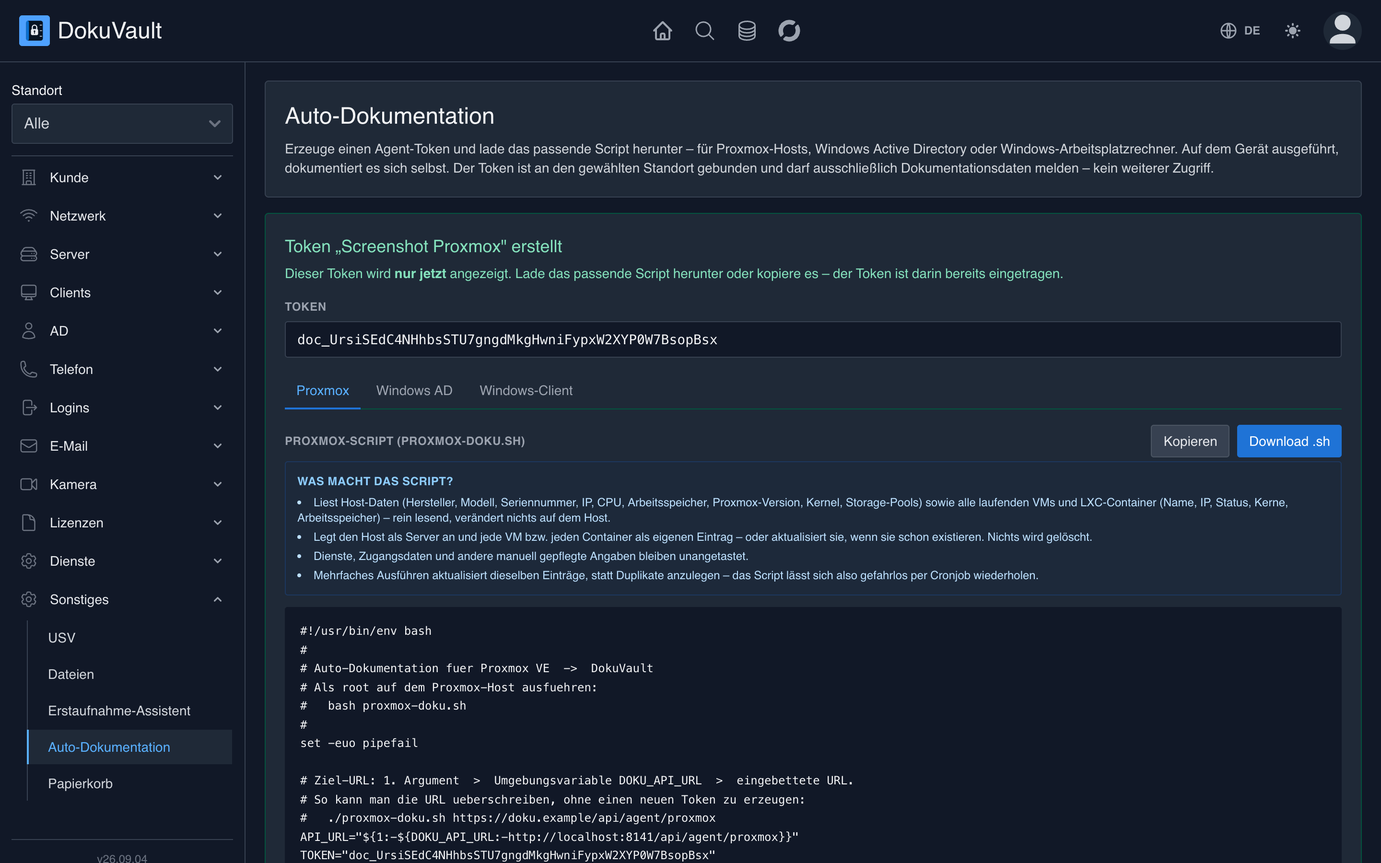
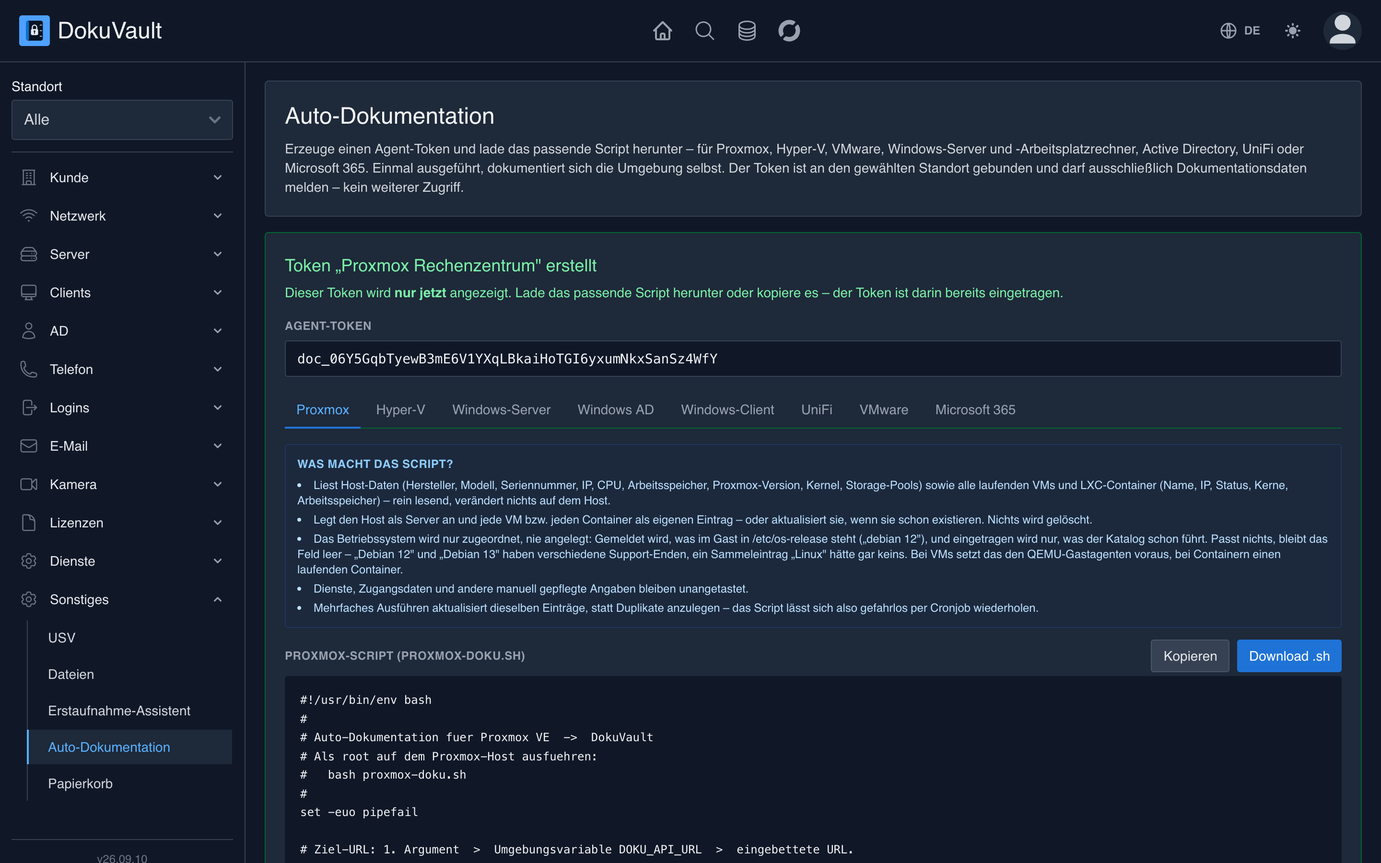
Die deutsche README kannte drei Agenten, es sind acht
Sie war fuenf Tage hinter der englischen zurueck: UniFi, VMware,
Hyper-V, Windows-Server und Microsoft 365 kamen darin nicht vor. Wer nur
die deutsche Fassung las, hielt sie fuer nicht vorhanden.

Der Abschnitt zur Auto-Dokumentation ist neu geschrieben und in beiden
Sprachen gleich gegliedert - vorher war die englische ein Fliesstext,
in dem die acht Agenten nur aufgezaehlt wurden:

  Auf dem Geraet selbst   Proxmox, Hyper-V, Windows-Server,
                          Windows-AD, Windows-Client
  Ueber das Netz          UniFi, VMware, Microsoft 365 - samt der
                          Shell-Fassungen, der Site-Wahl und der
                          Frage, wo das Kennwort landet
  Was ein Agent nicht tut fremde Zugangsdaten, Ueberschreiben von
                          Hand Gepflegtem, Katalogeintraege, der
                          Umfang eines Tokens

Der Screenshot zeigte noch die drei alten Reiter. Neu aufgenommen, in
beiden Sprachen, dazu ein zweites Bild der Agenten-Uebersicht - die gab
es beim letzten Screenshot noch nicht. Aufgenommen mit dem puppeteer,
das ohnehin im Projekt liegt, in 1440x900 bei doppelter Pixeldichte, wie
die uebrigen Screenshots.

Beim Aufnehmen der englischen Fassung fiel auf, dass die Oberflaeche
dort ins Deutsche faellt: 'Token „…" erstellt' und der Satz darunter
standen fest verdrahtet im Blade, nur die ersten drei Woerter liefen
durch __(). Auch die Beschriftung ueber dem Token-Wert stimmte nicht -
[…]

diff --git a/resources/views/agent/index.blade.php b/resources/views/agent/index.blade.php
@@ -24,15 +24,18 @@
             @endphp
             <div x-data="{ tab: @js(array_key_first($agenten)) }" class="p-5 rounded-xl border border-green-300 bg-green-50 shadow-xs dark:bg-gray-800 dark:border-green-800">
                 <div class="text-lg font-CoconPro text-green-800 dark:text-green-300">
-                    Token „{{ session('newTokenName') }}" erstellt
+                    {{ __('Token „:name" erstellt', ['name' => session('newTokenName')]) }}
                 </div>
                 <p class="mt-1 text-sm text-green-800 dark:text-green-300">
-                    {{ __('Dieser Token wird') }} <strong>nur jetzt</strong> angezeigt. Lade das passende Script herunter oder
-                    kopiere es – der Token ist darin bereits eingetragen.
+                    {{-- Drei Teile statt eines Satzes mit HTML darin: {!! !!} waere der
+                         einzige Weg, das <strong> aus der Uebersetzung kommen zu lassen -
+                         und rohes HTML aus einer Sprachdatei will hier niemand. --}}
+                    {{ __('Dieser Token wird') }} <strong>{{ __('nur jetzt') }}</strong>
+                    {{ __('angezeigt. Lade das passende Script herunter oder kopiere es – der Token ist darin bereits eingetragen.') }}
                 </p>
 
                 <div class="mt-3">
-                    <label class="text-xs font-semibold uppercase tracking-wide text-gray-500 dark:text-gray-400">{{ __('Token') }}</label>
+                    <label class="text-xs font-semibold uppercase tracking-wide text-gray-500 dark:text-gray-400">{{ __('Agent-Token') }}</label>
                     <div class="mt-1 flex items-center gap-2">
                         <code class="flex-1 break-all rounded-lg bg-white px-3 py-2 text-sm border border-gray-200 dark:bg-gray-900 dark:border-gray-700 dark:text-gray-100">{{ session('newToken') }}</code>
                     </div>

diff --git a/README.md b/README.md
@@ -15,7 +15,7 @@ PDF export, global search across every customer, and devices that
 ![PHP](https://img.shields.io/badge/PHP-8.2+-777BB4?logo=php&logoColor=white)
 ![Laravel](https://img.shields.io/badge/Laravel-12-FF2D20?logo=laravel&logoColor=white)
 ![Livewire](https://img.shields.io/badge/Livewire-4-FB70A9)
-![Tests](https://img.shields.io/badge/Tests-1033%20passing-3fb950)
+![Tests](https://img.shields.io/badge/Tests-1131%20passing-3fb950)
 ![License](https://img.shields.io/badge/License-MIT-blue)
 
 **[▶ Try the live demo](https://doku.dokuvault.de)**
@@ -42,7 +42,7 @@ MSPs lose time to scattered spreadsheets, stale wikis and “where did we write 
 | 🧭 **Initial survey wizard** | 16 steps through a new customer — ask, save the answer, next |
 | 🔌 **Patch panels** | Outlet number, room and target switch per port — “where does outlet A.12 go?” |
 | 🔎 **Global search** | Find a server, IP, serial number or MAC across **all** customers in seconds |
-| 🤖 **Auto-documentation** | One script on the device — the rest documents itself (Proxmox, Windows AD, Windows client) |
+| 🤖 **Auto-documentation** | **Eight agents** — one script, the rest documents itself: Proxmox, Hyper-V, VMware, Windows Server, Windows AD, Windows client, UniFi, Microsoft 365 |
 | 🌐 **IPAM** | Used, free and reserved IP addresses per VLAN at a glance, DHCP and gateway detection |
 | 🔐 **Encrypted** | Every password stored encrypted, role-based access, audit log |
 | 📄 **PDF export** | Complete customer documentation as a PDF at the push of a button |
@@ -65,7 +65,7 @@ MSPs lose time to scattered spreadsheets, stale wikis and “where did we write 
     <td width="50%"><img src="docs/screenshots/en/ipam.png" alt="IPAM"><br><sub><b>IPAM</b> – used, free and reserved addresses per VLAN, each range in its own colour</sub></td>
   </tr>
   <tr>
-    <td width="50%"><img src="docs/screenshots/en/autodoc.png" alt="Auto-documentation"><br><sub><b>Auto-documentation</b> – create an agent token, run the script, done</sub></td>
+    <td width="50%"><img src="docs/screenshots/en/autodoc.png" alt="Auto-documentation"><br><sub><b>Auto-documentation</b> – one token, eight scripts: create, run, done</sub></td>
     <td width="50%"><img src="docs/screenshots/en/certificates.png" alt="Certificates"><br><sub><b>SSL/TLS certificates</b> – with an expiry warning on the dashboard</sub></td>
   </tr>
   <tr>
@@ -130,81 +130,108 @@ Start under **Other → Initial survey wizard**, or from the card on the custome
 
 ---
 
-## 🤖 Auto-documentation — devices document themselves
+## 🤖 Auto-documentation — the environment documents itself
 
-No more typing things over. Create an **agent token bound to a customer and site** in the interface,
-download the matching script and run it on the device — the infrastructure lands in the
-documentation by itself. Repeated runs update instead of duplicating.
+No more typing things over. Create an **agent token bound to a customer and site** in the
+interface, download the matching script and run it — the inventory lands in the documentation by
+itself. **One token covers all eight agents**, and repeated runs update instead of duplicating:
+the script can safely live in a cron job.
+
+<img src="docs/screenshots/en/agenten.png" alt="The agents on offer" width="900">
+
+### On the device itself
+
+These agents need nothing but their token — they read the machine they run on.
 
 ```bash
 # On the Proxmox host, as root:
 bash proxmox-doku.sh
 ```
 
-The Proxmox agent records host hardware, serial number, IP and **all VMs & LXC containers**
-(including the IP via the QEMU guest agent) and creates them as a server with its guests.
+The **Proxmox** agent records host hardware, serial number, IP, CPU, memory and storage pools as
+well as **all VMs and LXC containers** (IP via the QEMU guest agent or the container config) and
+creates them as a server with its guests.
 
 ```powershell
-# On a domain controller (or a machine with the RSAT AD module):
-.\windows-ad-doku.ps1
+# On the Hyper-V host, or on a Windows server (as Administrator):
+.\hyperv-doku.ps1
+.\windows-server-doku.ps1
 ```
 
-The Windows AD agent reads all users plus **only self-created groups** — default and built-in groups
-and system accounts (Guest, krbtgt, DefaultAccount …) are filtered out on the domain controller
-itself, while the built-in Administrator is kept. Passwords are never read or transmitted.
+**Hyper-V** reports the host and every virtual machine. The **Windows Server** agent files the
+machine as a **server** rather than a client — anyone who used to run the client agent on a server
+found it under “Clients” afterwards, where nobody looks for it. It also reads the installed roles
+(AD, DNS, DHCP, file server …) into the services field, **as long as that field is still empty**:
+someone who has curated those services by hand knows more than `Get-WindowsFeature`.
 
 ```powershell
+# On a domain controller, or a machine with the RSAT AD module:
+.\windows-ad-doku.ps1
+
 # On a workstation:
 .\windows-client-doku.ps1
 ```
 
-The Windows client agent reports the hostname, manufacturer, model, serial number, operating
-system and IP address of a workstation and records it as a computer. It is recognised by an
-identifier of its own rather than by name — a renamed machine stays the same entry instead of
-becoming a second one. The Windows **server** agent does the same but files the machine as a
-server — and reads its installed roles (AD, DNS, DHCP, file server …) into the services field,
-as long as that field is still empty.
+The **Windows AD** agent reads all users plus **only self-created groups** — default and built-in
+groups and system accounts (Guest, krbtgt, DefaultAccount …) are filtered out on the domain
+controller itself, while the built-in Administrator is kept. Passwords are never read; in AD they
+are hashed and cannot be read at all.
 
-Some agents do not run on the device itself but query a system across the network:
+The **Windows client** agent reports the hostname, manufacturer, model, serial number, operating
+system and IP of a workstation. It is recognised by an identifier of its own rather than by name —
+a renamed machine stays the same entry instead of becoming a second one.
+
+### Across the network
+
+These three do not run on the device but query a system through its API.
 
 ```powershell
-# Anywhere that can reach the controller, vCenter, or the internet:
-.\hyperv-doku.ps1
-.\unifi-doku.ps1     -Controller "https://unifi.local"     -User "doku" -Password "…"
-.\vmware-doku.ps1    -Server     "vcenter.local"           -User "doku@vsphere.local" -Password "…"
+.\unifi-doku.ps1        -Controller "https://unifi.local" -User "doku" -Password "…" -Site "Kunde A"
+.\vmware-doku.ps1       -Server "vcenter.local" -User "doku@vsphere.local" -Password "…"
 .\microsoft365-doku.ps1 -TenantId "…" -ClientId "…" -ClientSecret "…"
 ```
 
-**Hyper-V** records the host and every virtual machine, **VMware** does the same for each ESXi host
-under a vCenter, **UniFi** picks up switches, access points and Wi-Fi networks, and
-**Microsoft 365** reads mailboxes, verified domains and booked licences through Graph.
+**UniFi** picks up switches, access points and Wi-Fi networks — recognised by MAC address or
+controller id, so a renamed device stays the same entry. The script talks to both UniFi OS (UDM,
+Cloud Key Gen2+) and the classic controller without you having to know which one it is.
+**VMware** does what Hyper-V does, but per ESXi host under a vCenter, through the vSphere REST API
+and without PowerCLI. **Microsoft 365** reads mailboxes, verified domains and booked licences
+through Microsoft Graph.
 
-Because those agents only talk to an API, UniFi and Microsoft 365 also ship as a **shell script**
-— run them from a Mac or Linux box, no PowerShell needed (curl and jq are enough). The token page
-offers both versions side by side:
+Because those three only talk to an API, **UniFi and Microsoft 365 also ship as a shell script** —
+run them from a Mac or a Linux box, no PowerShell needed (`curl` and `jq` are enough). The token
+page offers both versions side by side:
 
 ```bash
 bash unifi-doku.sh        --controller https://unifi.local --user doku --site "Kunde A"
 bash microsoft365-doku.sh --tenant-id "…" --client-id "…"
 ```
 
-The shell versions ask for the password rather than taking it as an argument, so it stays out of
-the process list and the shell history — or read it from `UNIFI_PASSWORD` / `M365_CLIENT_SECRET`.
+The shell versions **ask for the password** rather than taking it as an argument, so it stays out
+of the process list and the shell history — or read it from `UNIFI_PASSWORD` /
+`M365_CLIENT_SECRET`.
 
-A UniFi controller often holds **one site per customer**, and an agent token belongs to exactly one
+A UniFi controller often holds **several sites**, while an agent token belongs to exactly one
 customer — so the site is never guessed. With a single site it is used; with several the script
 lists them and stops until one is chosen. `--site` takes the internal name or the display name;
 `--sites` just lists them.
 
-Those third-party credentials are **passed on the command line and never stored in DokuVault** — a
-read-only account is enough everywhere.
+### What an agent does not do
 
-The **Wi-Fi passphrase is the one secret that does get documented**: it sits in plain text in the
-controller's configuration, DokuVault has an encrypted column for it, and in a documentation tool it
-is exactly what people look it up for. `--ohne-kennwoerter` turns that off. AD passwords are a
-different matter — they are hashed and cannot be read at all.
+- **Third-party credentials never land in DokuVault.** vCenter, UniFi and Graph get their login on
+  the command line; a read-only account is enough everywhere.
+- **Nothing is deleted, and nothing hand-curated is overwritten.** Services, credentials, corrected
+  VLAN assignments and manually added fields survive every run.
+- **The Proxmox agent creates no operating systems.** It reports what the guest states in
+  `/etc/os-release` (“debian 12”) and fills in only what the catalogue already holds — if nothing
+  matches, the field stays empty. “Debian 12” and “Debian 13” have different end-of-support dates;
+  a catch-all “Linux” would have none at all, which is worse than a gap. Same for Windows Server:
+  only a role the service catalogue already lists is taken over.
+- **Every token may only document** — a leaked one grants no further access.
 
-Every token may **only document** — a leaked one grants no further access.
+The one exception among the passwords is the **Wi-Fi passphrase**: it sits in plain text in the
+controller's configuration, DokuVault has an encrypted column for it, and in a documentation tool
+it is exactly what people look up. `--ohne-kennwoerter` turns that off.
 
 ---
 

diff --git a/README.de.md b/README.de.md
@@ -15,7 +15,7 @@ PDF-Export, globaler Suche über alle Kunden und Geräten, die sich per Agent
 ![PHP](https://img.shields.io/badge/PHP-8.2+-777BB4?logo=php&logoColor=white)
 ![Laravel](https://img.shields.io/badge/Laravel-12-FF2D20?logo=laravel&logoColor=white)
 ![Livewire](https://img.shields.io/badge/Livewire-4-FB70A9)
-![Tests](https://img.shields.io/badge/Tests-1033%20grün-3fb950)
+![Tests](https://img.shields.io/badge/Tests-1131%20grün-3fb950)
 ![License](https://img.shields.io/badge/License-MIT-blue)
 
 **[▶ Live-Demo ausprobieren](https://doku.dokuvault.de)**
@@ -43,7 +43,7 @@ immer aktuell.
 | 🧭 **Erstaufnahme-Assistent** | 16 Schritte führen durch den Neukunden – Frage stellen, Antwort speichern, weiter |
 | 🔌 **Patchfelder** | Je Port die Dosennummer, den Raum und den Ziel-Switch – „wo hängt Dose A.12?" |
 | 🔎 **Globale Suche** | Server, IP, Seriennummer oder MAC über **alle** Kunden in Sekunden finden |
-| 🤖 **Auto-Dokumentation** | Ein Script auf dem Gerät – der Rest dokumentiert sich selbst (Proxmox, Windows-AD, Windows-Client) |
+| 🤖 **Auto-Dokumentation** | **Acht Agenten** – ein Script, der Rest dokumentiert sich selbst: Proxmox, Hyper-V, VMware, Windows-Server, Windows-AD, Windows-Client, UniFi, Microsoft 365 |
 | 🌐 **IPAM** | Belegte, freie & reservierte IP-Adressen je VLAN auf einen Blick, DHCP- und Gateway-Erkennung |
 | 🔐 **Verschlüsselt** | Alle Passwörter verschlüsselt gespeichert, rollenbasierte Zugriffe, Audit-Log |
 | 📄 **PDF-Export** | Komplette Kundendokumentation auf Knopfdruck als PDF |
@@ -66,7 +66,7 @@ immer aktuell.
     <td width="50%"><img src="docs/screenshots/ipam.png" alt="IPAM"><br><sub><b>IPAM</b> – belegte, freie und reservierte Adressen je VLAN, jeder Bereich in eigener Farbe</sub></td>
   </tr>
   <tr>
-    <td width="50%"><img src="docs/screenshots/autodoc.png" alt="Auto-Dokumentation"><br><sub><b>Auto-Dokumentation</b> – Agent-Token erzeugen, Script ausführen, fertig</sub></td>
+    <td width="50%"><img src="docs/screenshots/autodoc.png" alt="Auto-Dokumentation"><br><sub><b>Auto-Dokumentation</b> – ein Token, acht Scripts: erzeugen, ausführen, fertig</sub></td>
     <td width="50%"><img src="docs/screenshots/certificates.png" alt="Zertifikate"><br><sub><b>SSL/TLS-Zertifikate</b> – mit Ablauf-Warnung im Dashboard</sub></td>
   </tr>
   <tr>
@@ -132,42 +132,108 @@ Einstieg über **Sonstiges → Erstaufnahme-Assistent** oder die Karte auf dem K
 
 ---
 
-## 🤖 Auto-Dokumentation – Geräte dokumentieren sich selbst
+## 🤖 Auto-Dokumentation – die Umgebung dokumentiert sich selbst
 
-Schluss mit manuellem Abtippen. Erzeuge in der Oberfläche einen **an Kunde und Standort gebundenen
-Agent-Token**, lade das passende Script herunter und führe es auf dem Gerät aus – die Infrastruktur
-landet automatisch in der Doku. Wiederholte Läufe aktualisieren, statt zu duplizieren.
+Schluss mit Abtippen. Erzeuge in der Oberfläche einen **an Kunde und Standort gebundenen
+Agent-Token**, lade das passende Script herunter und führe es aus – der Bestand landet von selbst
+in der Doku. **Ein Token gilt für alle acht Agenten**, und wiederholte Läufe aktualisieren, statt
+zu verdoppeln: Das Script darf gefahrlos im Cronjob stehen.
+
+<img src="docs/screenshots/agenten.png" alt="Übersicht der Agenten" width="900">
+
+### Auf dem Gerät selbst
+
+Diese Agenten brauchen nichts außer ihrem Token – sie lesen die Maschine, auf der sie laufen.
 
 ```bash
-# Auf dem Proxmox-Host als root:
+# Auf dem Proxmox-Host, als root:
 bash proxmox-doku.sh
 ```
 
-Der Proxmox-Agent erfasst Host-Hardware, Seriennummer, IP und **alle VMs & LXC-Container** (inkl.
-IP über den QEMU-Gast-Agent) und legt sie als Server samt Gästen an.
+Der **Proxmox**-Agent erfasst Host-Hardware, Seriennummer, IP, CPU, Arbeitsspeicher und
+Storage-Pools sowie **alle VMs und LXC-Container** (IP über den QEMU-Gastagenten bzw. die
+Container-Konfiguration) und legt sie als Server samt Gästen an.
 
 ```powershell
-# Auf einem Domaincontroller (bzw. Rechner mit RSAT-AD-Modul):
-.\windows-ad-doku.ps1
+# Auf dem Hyper-V-Host bzw. auf einem Windows-Server (als Administrator):
+.\hyperv-doku.ps1
+.\windows-server-doku.ps1
 ```
 
-Der Windows-AD-Agent liest alle Benutzer sowie **nur selbst angelegte Gruppen** aus – Standard-/
-Built-in-Gruppen und System-Konten (Gast, krbtgt, DefaultAccount …) werden bereits am DC
-herausgefiltert, der eingebaute Administrator bleibt erhalten. Passwörter werden nie ausgelesen
-oder übertragen.
+**Hyper-V** meldet den Host und jede virtuelle Maschine. Der **Windows-Server**-Agent legt den
+Rechner als **Server** an, nicht als Client – wer früher den Client-Agenten auf einem Server
+laufen ließ, fand ihn danach unter „Clients", wo ihn niemand sucht. Zusätzlich liest er die
+installierten Rollen (AD, DNS, DHCP, Fileserver …) und trägt sie als Dienste ein, **solange das
+Feld leer ist**: Wer die Dienste einmal von Hand gepflegt hat, weiß mehr als `Get-WindowsFeature`.
 
 ```powershell
+# Auf einem Domaincontroller bzw. einem Rechner mit RSAT-AD-Modul:
+.\windows-ad-doku.ps1
+
 # Auf einem Arbeitsplatzrechner:
 .\windows-client-doku.ps1
 ```
 
-Der Windows-Client-Agent meldet Hostname, Hersteller, Modell, Seriennummer, Betriebssystem und
-IP-Adresse eines Arbeitsplatzrechners und legt ihn als Computer an. Erkannt wird er an einer
-eigenen Kennung, nicht am Namen – ein umbenannter Rechner bleibt derselbe Eintrag, statt ein
-zweiter zu werden.
+Der **Windows-AD**-Agent liest alle Benutzer sowie **nur selbst angelegte Gruppen** – Standard- und
+Built-in-Gruppen und System-Konten (Gast, krbtgt, DefaultAccount …) werden bereits am DC
+herausgefiltert, der eingebaute Administrator bleibt erhalten. Kennwörter werden nie ausgelesen;
+im AD stehen sie als Hash und sind gar nicht lesbar.
 
-Jeder Token darf **ausschließlich dokumentieren** – bei einem Leak kein weiterer Zugriff. Weitere
-Agenten folgen.
+Der **Windows-Client**-Agent meldet Hostname, Hersteller, Modell, Seriennummer, Betriebssystem und
+IP eines Arbeitsplatzrechners. Erkannt wird er an einer eigenen Kennung, nicht am Namen – ein
+umbenannter Rechner bleibt derselbe Eintrag, statt ein zweiter zu werden.
+
+### Über das Netz
+
+Diese drei laufen nicht auf dem Gerät, sondern fragen ein System über dessen Schnittstelle ab.
+
+```powershell
+.\unifi-doku.ps1        -Controller "https://unifi.local" -User "doku" -Password "…" -Site "Kunde A"
+.\vmware-doku.ps1       -Server "vcenter.local" -User "doku@vsphere.local" -Password "…"
+.\microsoft365-doku.ps1 -TenantId "…" -ClientId "…" -ClientSecret "…"
+```
+
+**UniFi** holt Switches, Accesspoints und WLANs – erkannt an der MAC-Adresse bzw. der
+Controller-Id, ein umbenanntes Gerät bleibt derselbe Eintrag. Das Script spricht sowohl UniFi OS
+(UDM, Cloud Key Gen2+) als auch den klassischen Controller an, ohne dass man die Bauart kennen
+muss. **VMware** macht dasselbe wie Hyper-V, aber je ESXi-Host unter einem vCenter, über die
+vSphere-REST-Schnittstelle und ohne PowerCLI. **Microsoft 365** liest Postfächer, verifizierte
+Domains und gebuchte Lizenzen über Microsoft Graph.
+
+Weil diese drei nur mit einer API sprechen, gibt es **UniFi und Microsoft 365 auch als
+Shell-Script** – vom Mac oder von einem Linux-Rechner aus, ganz ohne PowerShell (`curl` und `jq`
+genügen). Die Token-Seite bietet beide Fassungen nebeneinander an:
+
+```bash
+bash unifi-doku.sh        --controller https://unifi.local --user doku --site "Kunde A"
+bash microsoft365-doku.sh --tenant-id "…" --client-id "…"
+```
+
+Die Shell-Fassungen **fragen das Kennwort ab**, statt es als Argument zu nehmen – so steht es
+weder in der Prozessliste noch in der Shell-History; alternativ lesen sie es aus
+`UNIFI_PASSWORD` bzw. `M365_CLIENT_SECRET`.
+
+Ein UniFi-Controller führt oft **mehrere Sites**, ein Agent-Token gehört aber zu genau einem
+Kunden – deshalb wird die Site nie geraten. Gibt es nur eine, wird sie genommen; gibt es mehrere,
+listet das Script sie auf und hält an, bis eine gewählt ist. `--site` nimmt den internen oder den
+angezeigten Namen, `--sites` listet nur auf.
+
+### Was ein Agent nicht tut
+
+- **Fremde Zugangsdaten landen nicht in DokuVault.** vCenter, UniFi und Graph bekommen ihre
+  Anmeldung beim Aufruf mitgegeben; ein nur lesendes Konto genügt überall.
+- **Nichts wird gelöscht, nichts überschrieben, was von Hand gepflegt ist.** Dienste,
+  Zugangsdaten, korrigierte VLAN-Zuordnungen und nachgetragene Felder überstehen jeden Lauf.
+- **Der Proxmox-Agent legt keine Betriebssysteme an.** Er meldet, was im Gast in
+  `/etc/os-release` steht („debian 12"), und trägt nur ein, was der Katalog schon führt – findet
+  sich nichts, bleibt das Feld leer. „Debian 12" und „Debian 13" haben verschiedene Support-Enden;
+  ein Sammeleintrag „Linux" hätte gar keins und wäre schlimmer als eine Lücke. Genauso beim
+  Windows-Server: Übernommen wird nur eine Rolle, die der Dienstekatalog bereits führt.
+- **Jeder Token darf ausschließlich dokumentieren** – bei einem Leak kein weiterer Zugriff.
+
+Die einzige Ausnahme bei den Kennwörtern ist das **WLAN-Kennwort**: Es steht im Klartext in der
+Controller-Konfiguration, DokuVault hat eine verschlüsselte Spalte dafür, und in einer
+Dokumentation ist es genau das, was man nachschlägt. `--ohne-kennwoerter` schaltet das ab.
 
 ---
 
@@ -191,7 +257,8 @@ Agenten folgen.
 - **Lizenzen** – Software-, Windows- und Zugriffslizenzen inkl. Ablaufdaten & Datei-Upload
 - **Zugangsdaten** – verschlüsselte Logins, Passwort anzeigen & kopieren, vorheriges Passwort
   bleibt für eine einstellbare Frist nachschlagbar – für den Fall, dass jemand falsch geändert hat
-- **Erfassung** – Erstaufnahme-Assistent (16 geführte Schritte), Auto-Dokumentation per Agent (Proxmox, Windows-AD, Windows-Client),
+- **Erfassung** – Erstaufnahme-Assistent (16 geführte Schritte), Auto-Dokumentation über **acht Agenten**
+  (Proxmox, Hyper-V, VMware, Windows-Server, Windows-AD, Windows-Client, UniFi, Microsoft 365),
   Agent-Token auf eigener Seite verwaltet (anlegen, einmalig anzeigen, widerrufen)
 - **Betrieb** – globale Suche, durchsuch- und filterbares Aktivitätsprotokoll (Ereignis, Objektart,
   Benutzer, Zeitraum), Papierkorb (Wiederherstellen, dazu eine Adminansicht über alle Kunden),

diff --git a/changelog.md b/changelog.md
@@ -4,11 +4,14 @@
 
 ### Changed
 
+- **Die deutsche README hing fünf Tage hinterher.** Sie kannte drei Agenten, während es acht sind — wer sie las, hielt UniFi, VMware, Hyper-V, Windows-Server und Microsoft 365 für nicht vorhanden. Der Abschnitt zur Auto-Dokumentation ist neu geschrieben und in beiden Sprachen gleich gegliedert: was auf dem Gerät selbst läuft, was über das Netz abgefragt wird, und was ein Agent ausdrücklich *nicht* tut. Dazu ein Bild der Agenten-Übersicht.
+- **Der Screenshot der Auto-Dokumentation zeigte noch drei Reiter.** Neu aufgenommen, in beiden Sprachen — mit allen acht Agenten und der Übersicht darüber, die es beim letzten Bild noch nicht gab.
 - **Zwanzig Server-Felder ohne Gliederung sahen wie eine Fläche aus.** Das generische Objekt-Formular rendert die Felder aller ~38 Typen flach in einem Grid; beim Server verschwamm dadurch der Fernwartungs-Zugang mit dem Kaufdatum. Ein optionaler `gruppe`-Schlüssel je Feld setzt jetzt eine Abschnittsüberschrift mit Trennlinie (Grunddaten, System, Fernzugriff, Beschaffung, Dienste) — gesetzt ist er nur beim Server, alle anderen Typen rendern unverändert weiter.
 - **Tailwind 4, Flowbite 4 und Vite 6 übernommen.** Die Tailwind-Konfiguration liegt nicht mehr in `tailwind.config.js`, sondern als `@theme`/`@plugin`-Direktiven in `resources/css/app.css`; Flowbite 4 verlangt Tailwind 4 als Peer-Dependency und ging deshalb im selben Zug mit. Vite 6 lädt `laravel-vite-plugin` nur noch als ESM, weshalb `package.json` jetzt `"type": "module"` führt.
 
 ### Fixed
 
+- **Die englische Oberfläche fiel auf der Agent-Seite ins Deutsche.** „Token „…" erstellt" und der Satz darunter standen fest verdrahtet im Blade, nur die ersten drei Wörter liefen durch `__()`. Aufgefallen ist es beim Aufnehmen des englischen Screenshots. Auch die Beschriftung über dem Token-Wert stimmte nicht: `Token` ist auf Englisch mit „tokens" hinterlegt — richtig für die Zählung („5 Token"), falsch über einem einzelnen Wert. Der Stichpunkt zum Betriebssystem, der letzte Woche dazukam, hatte ebenfalls keine Übersetzung.
 - **Die Dienste-Kacheln warfen bei jedem Öffnen des Formulars einen JavaScript-Fehler.** Die Hover-Beschreibung sitzt in einer Blade-Komponente, und deren Attributwerte werden nicht kompiliert — sie landen wörtlich in `$attributes`. Das `@js(...)` im `x-show` der Komponente blieb dadurch als Text stehen, Alpine bekam kein gültiges JavaScript und meldete einen Syntaxfehler. Sichtbare Folge war eine Lücke in der Kachelreihe: Der Knopf verschwand beim Auswählen, sein Hover-Rahmen blieb stehen. Der Ausdruck wird jetzt in PHP gebaut und gebunden übergeben.
 
 ## 26.09.07
